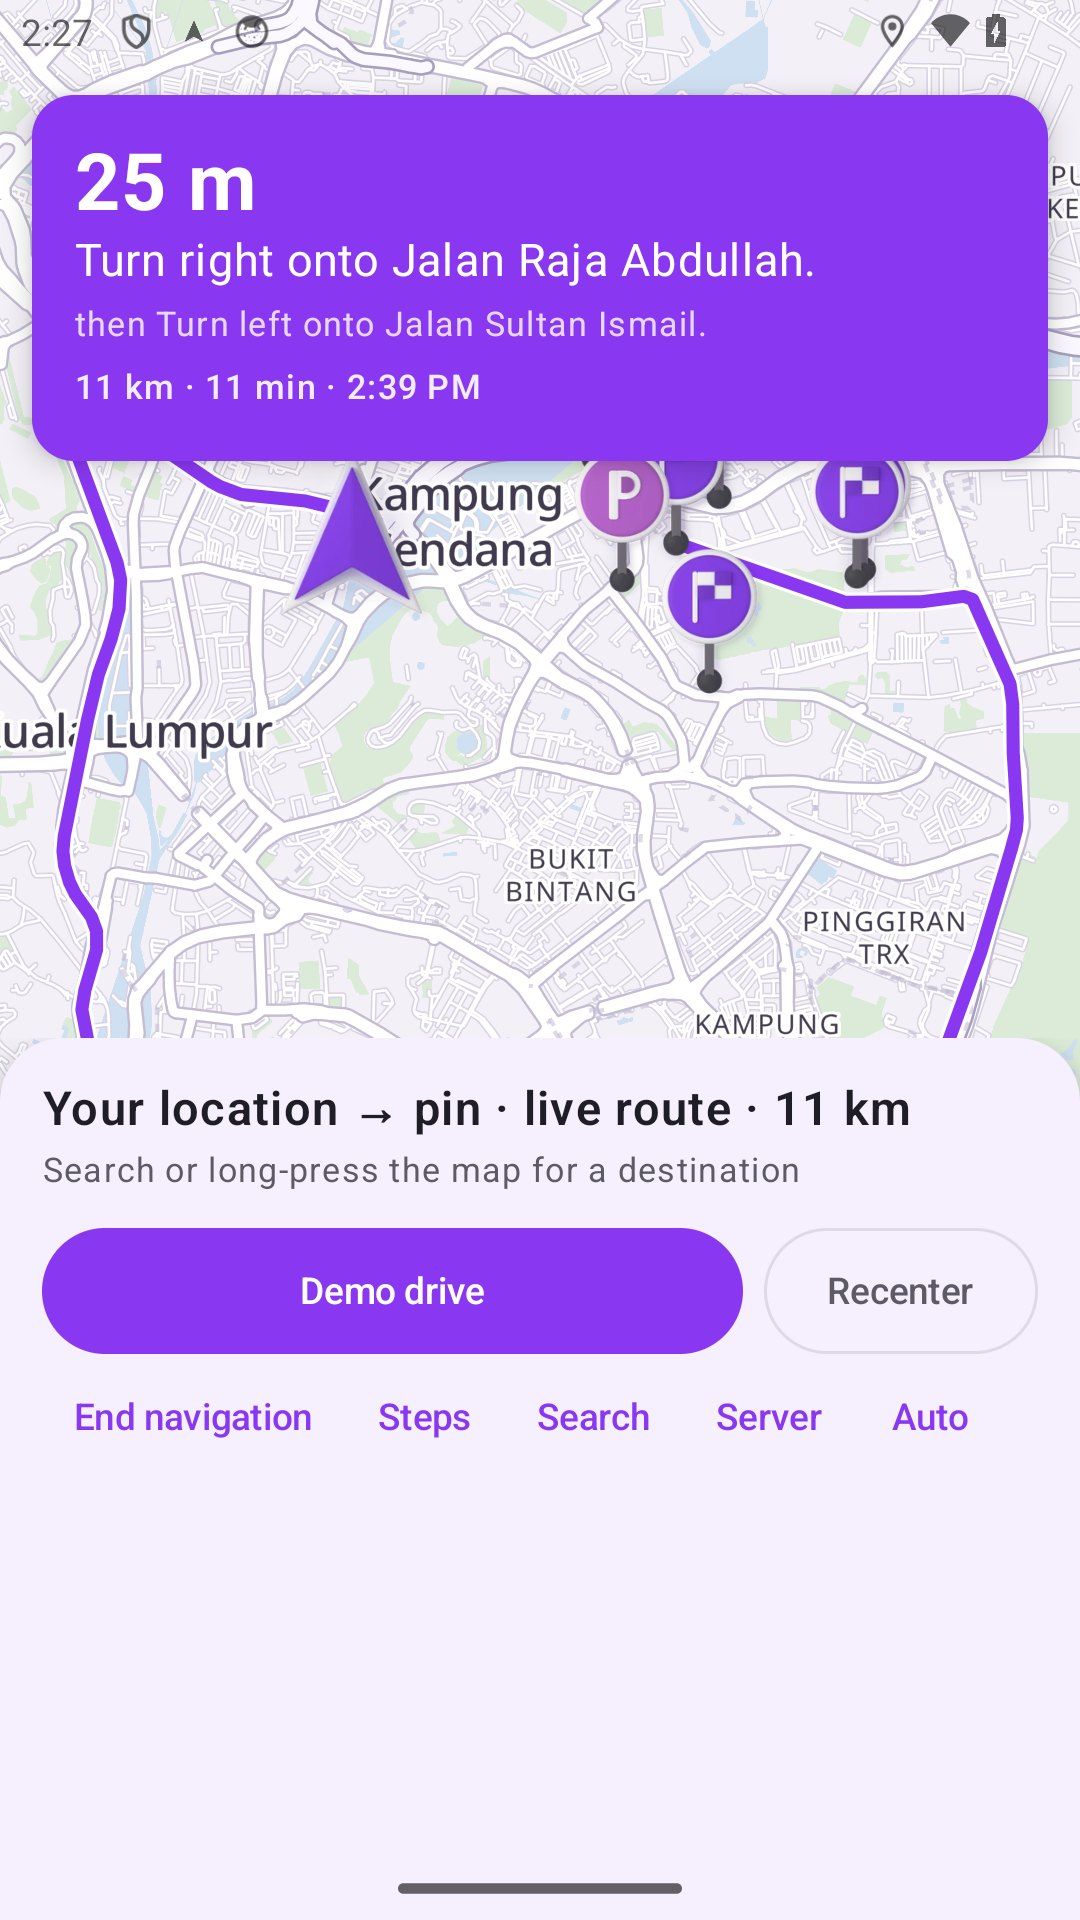
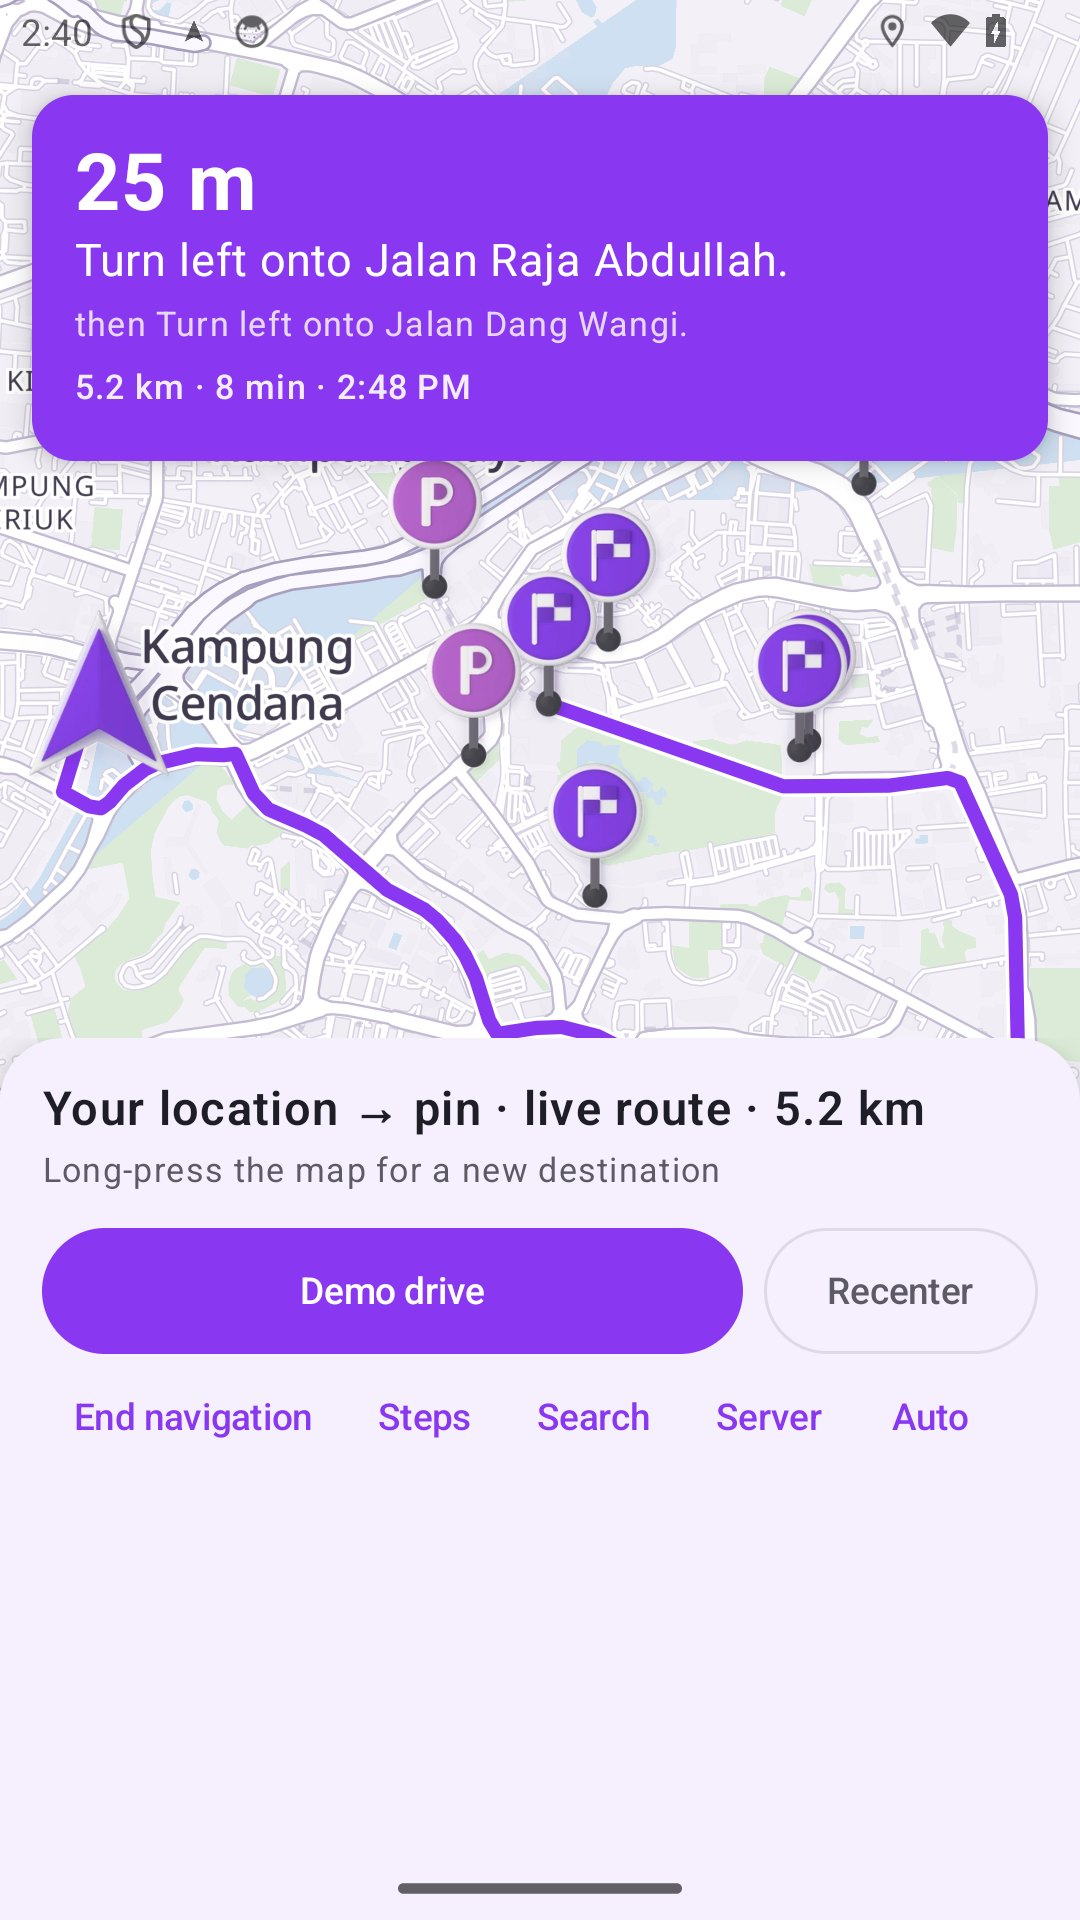
While a route is up, the second line offers the next action instead of asking for a destination
A navigation screen that still says "Search or long-press the map for a destination" while it is guiding you is telling you
to do what you just did. It now says "Long-press the map for a new destination". Screenshot of a real route refreshed.

diff --git a/app/src/main/kotlin/app/aize/ui/NavScreen.kt b/app/src/main/kotlin/app/aize/ui/NavScreen.kt
@@ -582,7 +582,8 @@ fun NavScreen() {
                             fontSize = 18.sp, fontWeight = FontWeight.SemiBold,
                         )
                         Text(
-                            if (demo) "Demo drive (recorded route, ${(DEMO_SPEED_MPS * 3.6).roundToInt()} km/h)" else "Search or long-press the map for a destination",
+                            if (demo) "Demo drive (recorded route, ${(DEMO_SPEED_MPS * 3.6).roundToInt()} km/h)"
+                            else "Long-press the map for a new destination",
                             color = MaterialTheme.colorScheme.onSurfaceVariant, fontSize = 13.sp,
                         )
                     }
